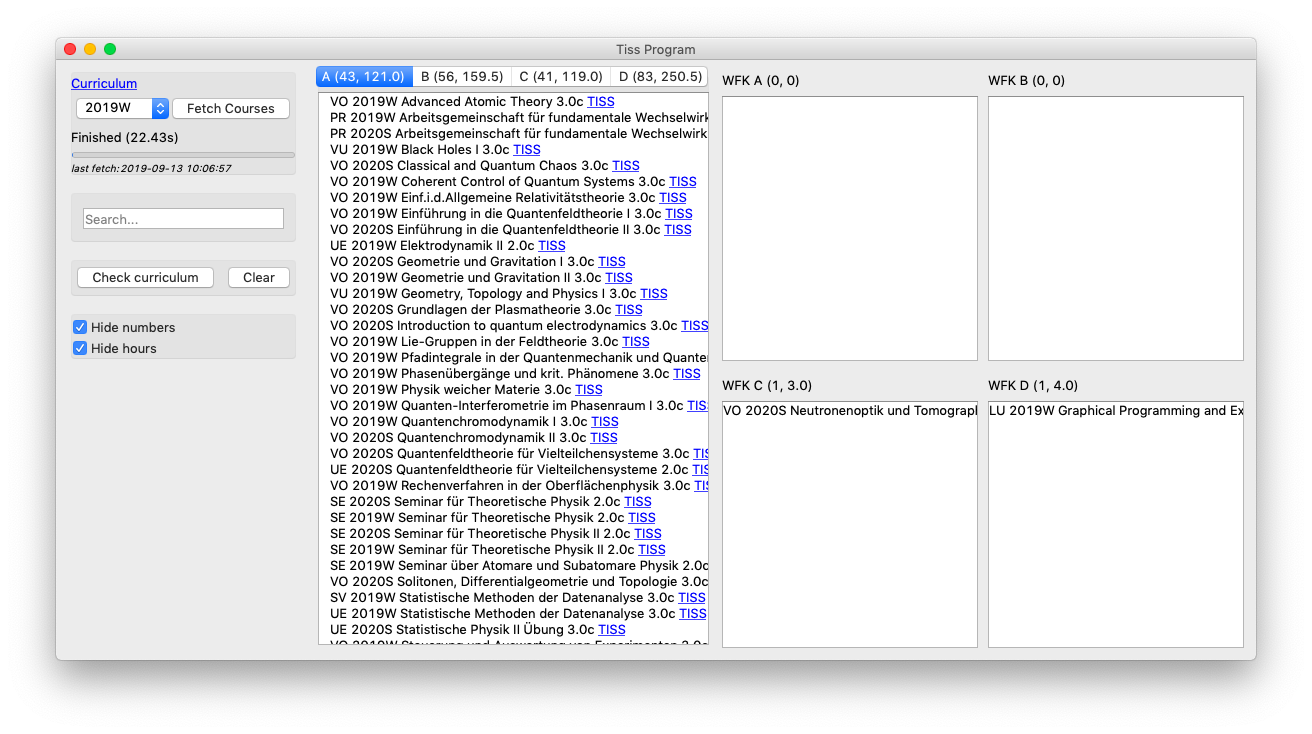
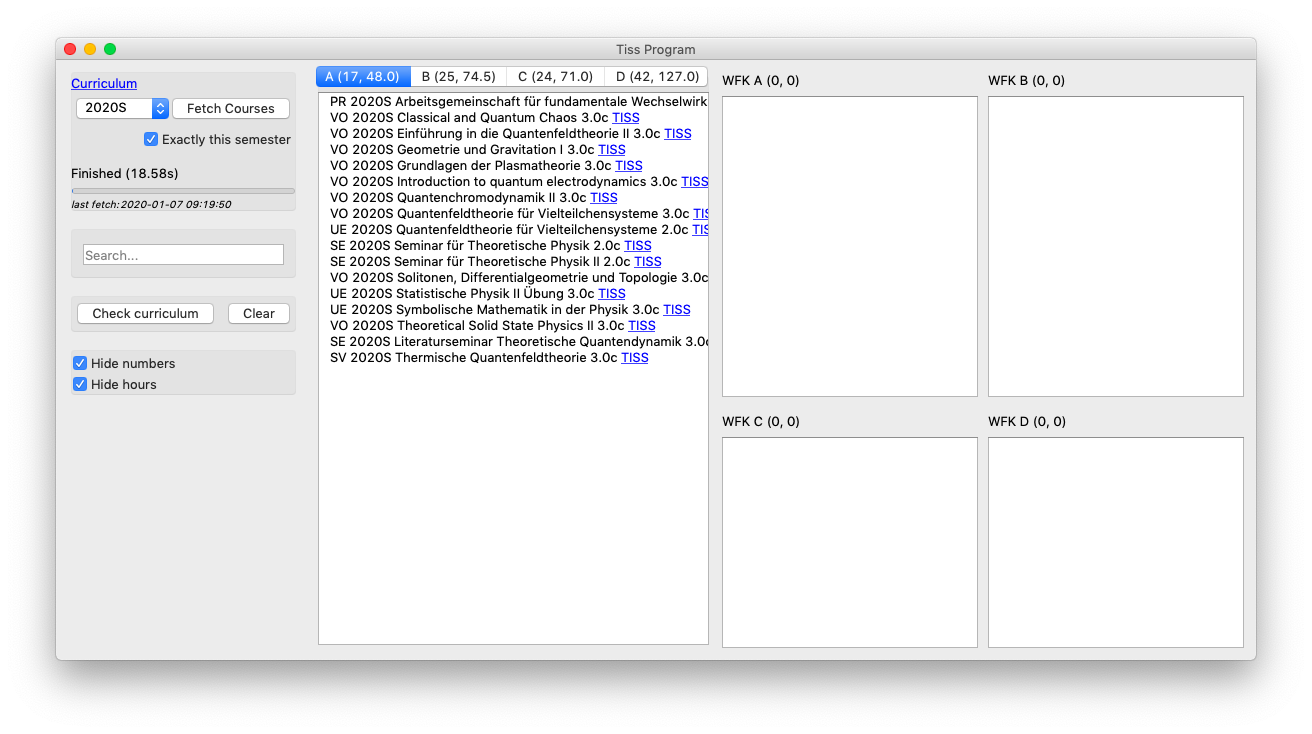
add "exact semester" toggle
fix worker arguments

Changed region(s): [[0.25, 0.0899, 0.9688, 0.8692], [0.0625, 0.1798, 0.2188, 0.3896], [0.0312, 0.4196, 0.2188, 0.5395]]

diff --git a/main.py b/main.py
@@ -9,7 +9,6 @@ from CourseWidget import Course
 from CourseWidget import CourseWidget
 from FileManager import FileManager
 
-
 class MainWindow(QMainWindow):
 
     def __init__(self):
@@ -38,6 +37,7 @@ class MainWindow(QMainWindow):
             self.lastFetchDateTime.setText(settings[0])
             self.toggleCourseNumbers.setChecked(FileManager.str2bool(settings[1]))
             self.toggleCourseHours.setChecked(FileManager.str2bool(settings[2]))
+            self.exactSemester.setChecked(FileManager.str2bool(settings[3]))
 
     def initUI(self):
         centralWidget = QWidget(self)
@@ -60,8 +60,8 @@ class MainWindow(QMainWindow):
         hlayout.setContentsMargins(0, 0, 0, 0)
         hlayout.setSpacing(0)
         self.semesterSelectBox = QComboBox(self)
-        self.semesterSelectBox.addItem("2019S")
         self.semesterSelectBox.addItem("2019W")
+        self.semesterSelectBox.addItem("2020S")
         self.semesterSelectBox.setCurrentIndex(1)
         hlayout.addWidget(self.semesterSelectBox)
 
@@ -69,6 +69,14 @@ class MainWindow(QMainWindow):
         self.fetchButton.clicked.connect(self.prepareFetching)
         hlayout.addWidget(self.fetchButton)
         fetchLayout.addLayout(hlayout)
+
+        hlayout2 = QHBoxLayout()
+        hlayout2.setContentsMargins(0, 0, 0, 20)
+        hlayout2.setSpacing(0)
+        self.exactSemester = QCheckBox("Exactly this semester", self)
+        hlayout2.setAlignment(QtCore.Qt.AlignRight)
+        hlayout2.addWidget(self.exactSemester)
+        fetchLayout.addLayout(hlayout2)
 
         self.statusOutput = QLabel("<Status output>", self)
         fetchLayout.addWidget(self.statusOutput)
@@ -113,7 +121,7 @@ class MainWindow(QMainWindow):
         for index, l in enumerate(self.tissCatalogues):
             l.setSizePolicy(sizePolicy)
             l.setMinimumSize(QtCore.QSize(50, 50))
-            l.setObjectName("WFK " + Catalogue.catalogueLetters[index] + " list")
+            l.setObjectName(f"WFK {Catalogue.catalogueLetters[index]} list")
             l.setEditTriggers(QAbstractItemView.NoEditTriggers)
             l.setDropIndicatorShown(False)
             l.setDragEnabled(False)
@@ -138,7 +146,7 @@ class MainWindow(QMainWindow):
             l.setDragEnabled(False)
             l.setDefaultDropAction(QtCore.Qt.IgnoreAction)
             l.setSelectionMode(QAbstractItemView.SingleSelection)
-            l.setObjectName("Personal WFK " + Catalogue.catalogueLetters[index] + " list")
+            l.setObjectName(f"Personal WFK {Catalogue.catalogueLetters[index]} list")
             l.itemDoubleClicked.connect(self.personalItemDoubleClicked)
             l.keyPressEvent = self.keyPressEventDeleteCourse
 
@@ -217,10 +225,10 @@ class MainWindow(QMainWindow):
         # Connect any worker signals
         self.worker.doneSignal.connect(self.fetchingFinished)
         self.worker.updateSignal.connect(self.updateStatus)
-        self.fetchButton.clicked.connect(functools.partial(self.worker.startWork, self.semesterSelectBox.currentText(), self.timeout))
+        self.fetchButton.clicked.connect(functools.partial(self.worker.startWork, self.semesterSelectBox, self.exactSemester, self.timeout))
 
     def closeEvent(self, event):
-        FileManager.storeSettings([self.lastFetchDateTime.text(), self.toggleCourseNumbers.isChecked(), self.toggleCourseHours.isChecked()])
+        FileManager.storeSettings([self.lastFetchDateTime.text(), self.toggleCourseNumbers.isChecked(), self.toggleCourseHours.isChecked(), self.exactSemester.isChecked()])
         self.storeCourses()
         event.accept()
 
@@ -238,7 +246,7 @@ class MainWindow(QMainWindow):
                     count += 1
                 else:
                     widget.setGreyedOut(True)
-            self.tabWidget.setTabText(index, Catalogue.catalogueLetters[index] + " (" + str(count) + "/" + str(len(self.tissCatalogues[index])) + ")")
+            self.tabWidget.setTabText(index, f"{Catalogue.catalogueLetters[index]} ({count}/{len(self.tissCatalogues[index])})")
         if text == "":
             self.updateTitles()
             self.checkCurriculumButton.setEnabled(True)
@@ -256,12 +264,12 @@ class MainWindow(QMainWindow):
                 widget = self.getItemWidget(self.personalCatalogues[index], i)
                 widget.setInfoHidden(infoIdx, hidden)
 
-    def addTestCourses(self):
-        for idx, letter in enumerate(Catalogue.catalogueLetters):
-            c = Catalogue("Test" + letter)
-            ca = Course("000.000", "VO", "2019W", "TestName" + str(idx), 3.0, 3.0, "test.com")
-            c.courses.append(ca)
-            self.addNewCourse(self.tissCatalogues[idx], ca, False)
+    # def addTestCourses(self):
+    #     for idx, letter in enumerate(Catalogue.catalogueLetters):
+    #         c = Catalogue("Test" + letter)
+    #         ca = Course("000.000", "VO", "2019W", "TestName" + str(idx), 3.0, 3.0, "test.com")
+    #         c.courses.append(ca)
+    #         self.addNewCourse(self.tissCatalogues[idx], ca, False)
 
     def addNewCourse(self, targetList, course, isPersonal):
         itemWidget = CourseWidget(course, isPersonal)
@@ -330,16 +338,16 @@ class MainWindow(QMainWindow):
             for i in range(self.tissCatalogues[index].count()):
                 widget = self.getItemWidget(self.tissCatalogues[index], i)
                 credits += widget.course.credits
-            self.tabWidget.setTabText(index, Catalogue.catalogueLetters[index] + " (" + str(len(self.tissCatalogues[index])) + ", " + str(credits) + ")")
+            self.tabWidget.setTabText(index, f"{Catalogue.catalogueLetters[index]} ({len(self.tissCatalogues[index])}, {credits})")
             credits = 0
             for i in range(self.personalCatalogues[index].count()):
                 widget = self.getItemWidget(self.personalCatalogues[index], i)
                 credits += widget.course.credits
-            self.personalCataloguesTitles[index].setText("WFK " + Catalogue.catalogueLetters[index] + " (" + str(len(self.personalCatalogues[index])) + ", " + str(credits) + ")")
+            self.personalCataloguesTitles[index].setText(f"WFK {Catalogue.catalogueLetters[index]} ({len(self.personalCatalogues[index])}, {credits})")
 
     def checkCurriculum(self):
         for index in range(len(Catalogue.catalogueLetters)):
-            curriculumCatalogue = open("WFK/WFK_" + Catalogue.catalogueLetters[index] + ".txt", 'r')
+            curriculumCatalogue = open(f"WFK/WFK_{Catalogue.catalogueLetters[index]}.txt", 'r')
             curriculumCourses = []
             for line in curriculumCatalogue:
                 parts = line.strip().split('|')
@@ -411,6 +419,7 @@ class MainWindow(QMainWindow):
             self.updateTitles()
         self.checkCurriculumButton.setEnabled(enabled)
         self.clearCurriculumFeedbackButton.setEnabled(enabled)
+        self.exactSemester.setEnabled(enabled)
         self.progressBar.setValue(0)
         if enabled:
             self.progressBar.setValue(1)
@@ -428,7 +437,7 @@ class MainWindow(QMainWindow):
                 currentListWidget = self.tissCatalogues[index]
                 for i, co in enumerate(c.courses):
                     self.addNewCourse(currentListWidget, co, False)
-                    self.statusOutput.setText("Importing \"WFK %s\"...(%i/%i)" % (Catalogue.catalogueLetters[index], i, len(c.courses)))
+                    self.statusOutput.setText(f"Importing \"WFK {Catalogue.catalogueLetters[index]}\"...({i}/{len(c.courses)})")
                     self.progressBar.setValue(int(float(i / len(c.courses)) * 100))
                     QtWidgets.qApp.processEvents()
 

diff --git a/CourseFetcher.py b/CourseFetcher.py
@@ -50,7 +50,7 @@ class WorkerObject(QtCore.QObject):
         except TimeoutException:
             return [], "Timed out"
 
-        self.updateSignal.emit("Selecting semester %s..." % semester)
+        self.updateSignal.emit(f"Selecting semester {semester}...")
         semesterSelect = Select(self.driver.find_element_by_id('j_id_2b:semesterSelect'))
         semesterSelect.select_by_visible_text(semester)
 
@@ -90,13 +90,13 @@ class WorkerObject(QtCore.QObject):
                 filteredEntries.append(entry)
         return filteredEntries, ""
 
-    def sortEntries(self, entries):
+    def sortEntries(self, entries, semester, exactSemester):
         catalogues = []
         i = 0
         curCatalogue = None
 
         for entry in entries:
-            self.updateSignal.emit("Sorting entries (%i/%i)..." % ((i + 1), len(entries)))
+            self.updateSignal.emit(f"Sorting entries ({i+1}/{len(entries)})...")
 
             if any(entry.text.strip() == ignored for ignored in ignoredRows):
                 pass
@@ -108,14 +108,15 @@ class WorkerObject(QtCore.QObject):
                 firstRow = parts[0].split(' ')
                 number = firstRow[0]
                 courseType = firstRow[1]
-                semester = firstRow[2]
-                name = parts[2]
-                link = linkprefix + entry.findChild("div", {"class": "courseTitle"}, recursive=False).findChild("a")['href']
-                aunts = entry.parent.parent.findChildren("td", recursive=False)
-                hours = float(aunts[2].text.strip())
-                credits = float(aunts[3].text.strip())
-                newCourse = Course(number, courseType, semester, name, hours, credits, link)
-                curCatalogue.courses.append(newCourse)
+                curSemester = firstRow[2]
+                if not exactSemester or curSemester == semester:
+                    name = parts[2]
+                    link = linkprefix + entry.findChild("div", {"class": "courseTitle"}, recursive=False).findChild("a")['href']
+                    aunts = entry.parent.parent.findChildren("td", recursive=False)
+                    hours = float(aunts[2].text.strip())
+                    credits = float(aunts[3].text.strip())
+                    newCourse = Course(number, courseType, curSemester, name, hours, credits, link)
+                    curCatalogue.courses.append(newCourse)
             elif isCanceledCourse(entry):
                 pass
             else:
@@ -123,11 +124,13 @@ class WorkerObject(QtCore.QObject):
             i += 1
         return catalogues
 
-    def startWork(self, semester, timeout):
+    def startWork(self, semesterSelectBox, exactSemesterBox, timeout):
+        semester = semesterSelectBox.currentText()
+        exactSemester = exactSemesterBox.isChecked()
         self.driver = self.startGecko()
         courses, msg = self.getVertiefung1Courses(coursesURL, semester, timeout)
         self.driver.quit()
-        vertiefungen = self.sortEntries(courses)
+        vertiefungen = self.sortEntries(courses, semester, exactSemester)
         if len(courses) > 0:
             self.updateSignal.emit("Fetching finished")
         else:
